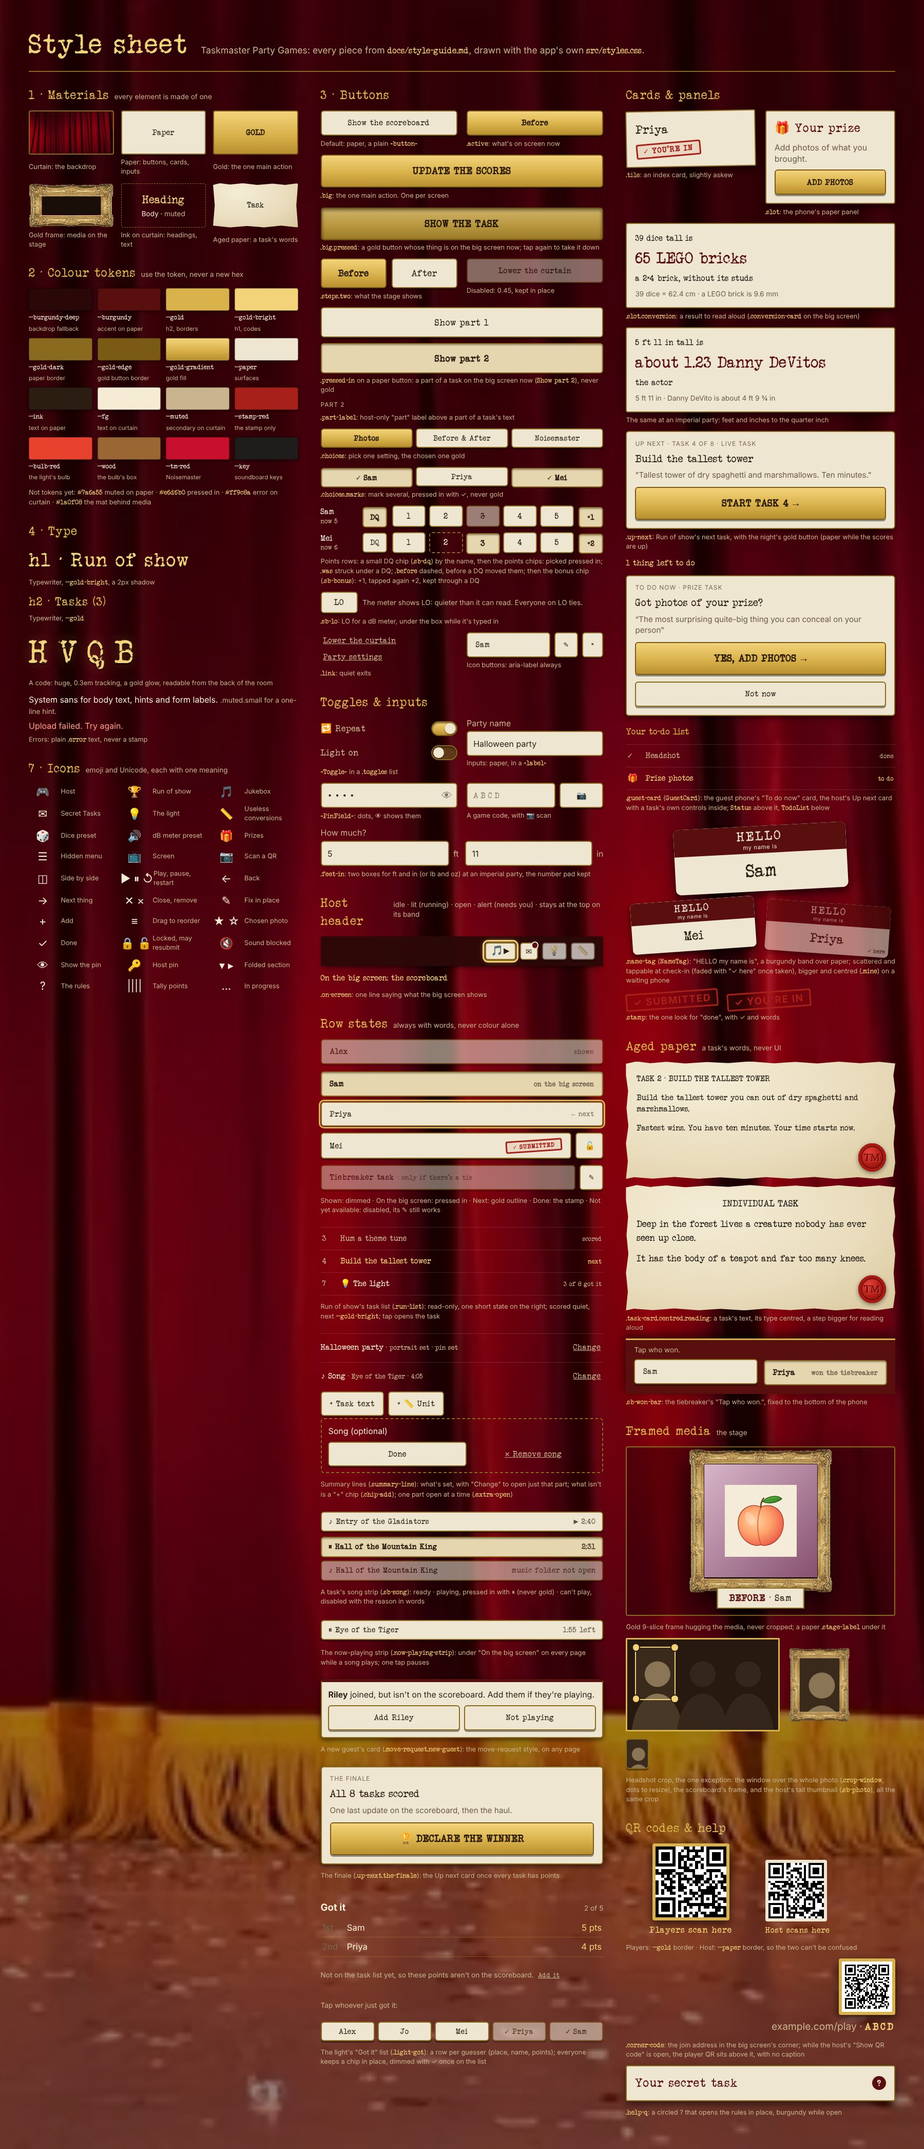
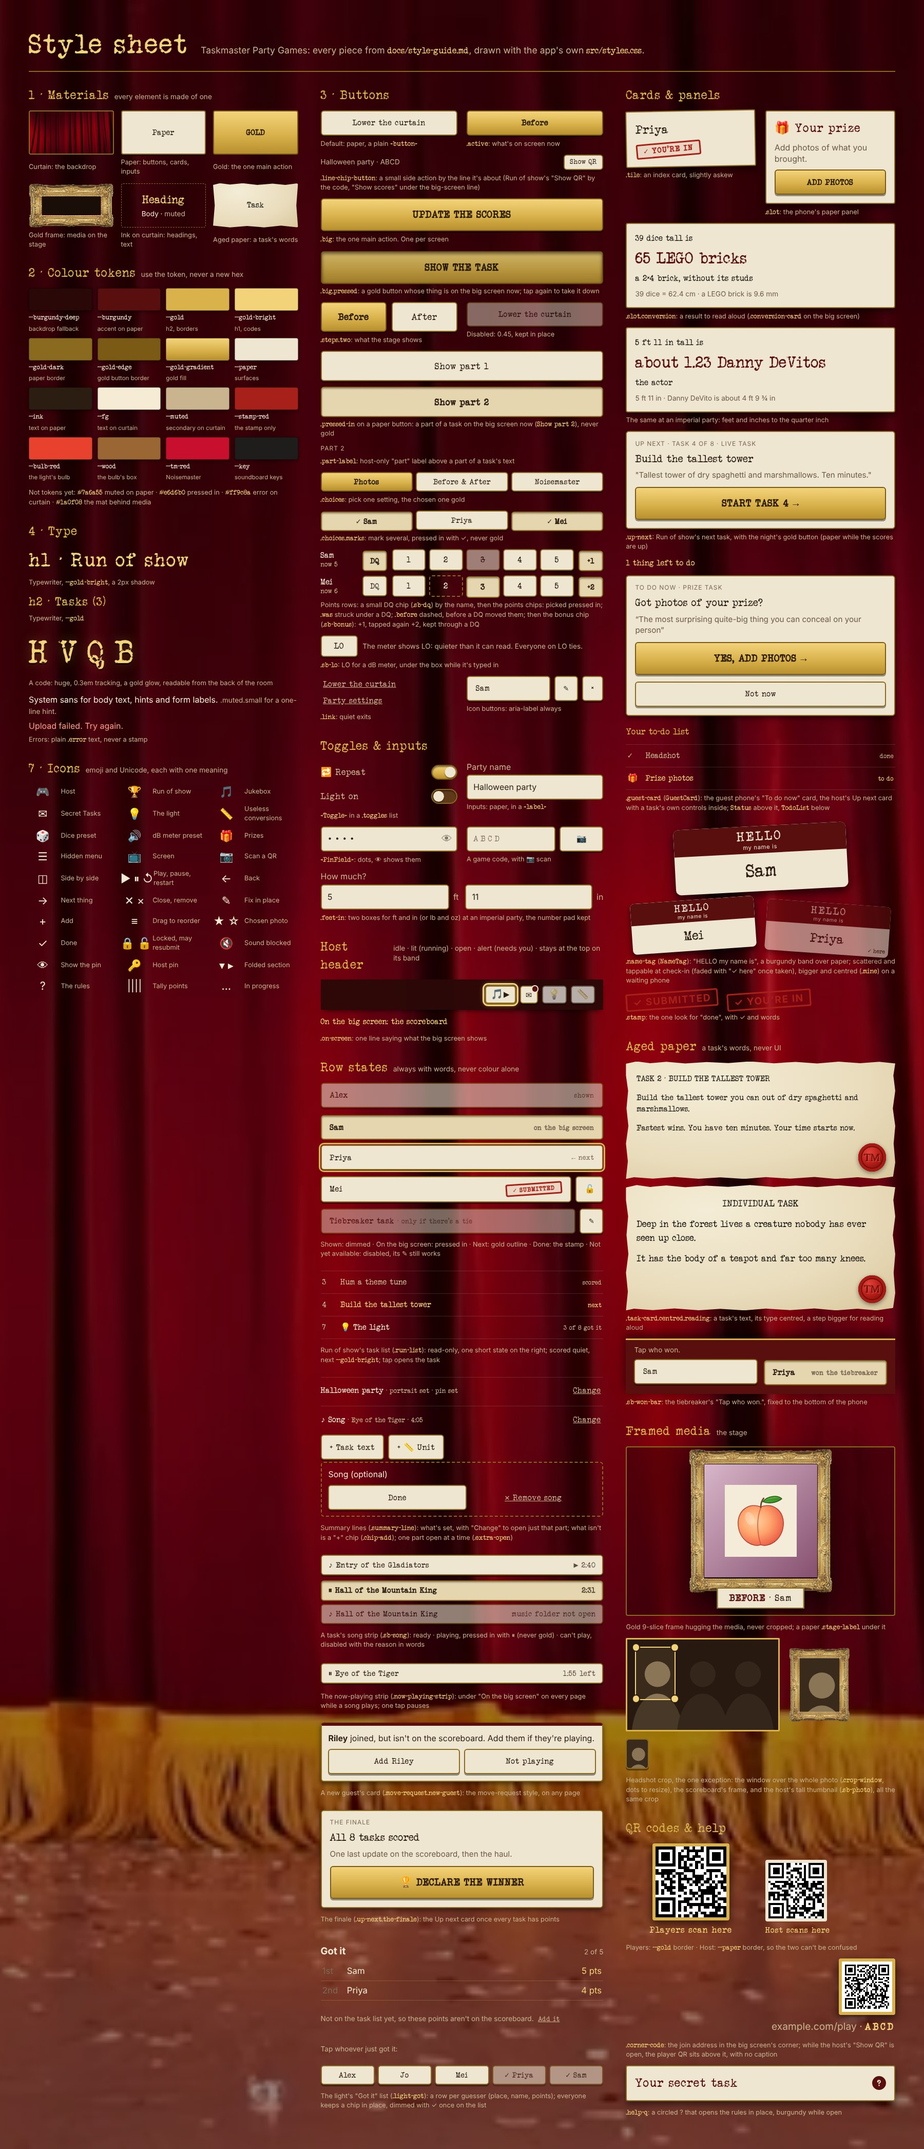
Run of show chips: style guide, style sheet and screen notes
Claude-Session: https://claude.ai/code/session_01JJ78Wp2tedmzgFTByNnrqT

Changed region(s): [[0.3422, 0.0621, 0.6533, 0.9943]]

diff --git a/docs/style-sheet/sheet.tsx b/docs/style-sheet/sheet.tsx
@@ -88,9 +88,12 @@ function Sheet() {
         <div className="col">
           <Sec title="3 · Buttons">
             <div className="pair">
-              <Item cap={<>Default: paper, a plain <code>&lt;button&gt;</code></>}><button>Show the scoreboard</button></Item>
+              <Item cap={<>Default: paper, a plain <code>&lt;button&gt;</code></>}><button>Lower the curtain</button></Item>
               <Item cap={<><code>.active</code>: what's on screen now</>}><button className="active">Before</button></Item>
             </div>
+            <Item cap={<><code>.line-chip-button</code>: a small side action by the line it's about (Run of show's "Show QR" by the code, "Show scores" under the big-screen line)</>}>
+              <div className="line-chip"><p className="muted small party-line">Halloween party · ABCD</p><button className="line-chip-button">Show QR</button></div>
+            </Item>
             <Item cap={<><code>.big</code>: the one main action. One per screen</>}><button className="big">Update the scores</button></Item>
             <Item cap={<><code>.big.pressed</code>: a gold button whose thing is on the big screen now; tap again to take it down</>}><button className="big pressed" aria-pressed>Show the task</button></Item>
             <div className="pair">
@@ -273,7 +276,7 @@ function Sheet() {
               <QRCodeSVG value="https://example.com/play?code=ABCD" bgColor="#fff" marginSize={2} style={{ width: 110, height: 110 }} />
               <p>example.com/play · <strong>ABCD</strong></p>
             </div>
-            <Cap><code>.corner-code</code>: the join address in the big screen's corner; while the host's "Show QR code" is open, the player QR sits above it, with no caption</Cap>
+            <Cap><code>.corner-code</code>: the join address in the big screen's corner; while the host's "Show QR" is open, the player QR sits above it, with no caption</Cap>
             <div className="slot" style={{ gridTemplateColumns: "1fr auto", alignItems: "center" }}><h2>Your secret task</h2><button className="help-q" aria-expanded>?</button></div>
             <Cap><code>.help-q</code>: a circled ? that opens the rules in place, burgundy while open</Cap>
           </Sec>

diff --git a/src/styles.css b/src/styles.css
@@ -157,7 +157,7 @@ input::placeholder { color: #8b7a63; }
 .collecting.no-task .collecting-side .tile .name { font-size: clamp(1.5rem, 3.4vh, 2.4rem); }
 .corner-code { position: fixed; right: 1.2rem; bottom: 0.8rem; display: grid; justify-items: end; gap: 0.6rem; }
 .corner-code p { margin: 0; color: var(--muted); font-size: clamp(0.9rem, 1.8vh, 1.2rem); }
-/* the host remote's "Show QR code", mirrored above the address: big enough to scan from a sofa */
+/* the host remote's "Show QR", mirrored above the address: big enough to scan from a sofa */
 .corner-code svg { width: 24vh; height: auto; border-radius: 4px; border: 6px solid var(--gold); background: #fff; box-shadow: 0 6px 18px #000a; }
 .corner-code strong { font-family: var(--typewriter); color: var(--gold-bright); letter-spacing: 0.2em; }
 .corner-download { position: fixed; left: 1.2rem; bottom: 0.8rem; }

diff --git a/src/types.ts b/src/types.ts
@@ -373,7 +373,7 @@ export interface Session {
   portrait?: string;
   /** Host remote toggles this to reveal the download-all button on the main screen. */
   showDownload?: boolean;
-  /** The host remote's "Show QR code" is open: the big screen puts the join QR above its corner code too. */
+  /** The host remote's "Show QR" is open: the big screen puts the join QR above its corner code too. */
   showQr?: boolean;
   /** A live task's words (a task's id, or "tiebreaker", and which part) the host put on every guest's phone, until the host takes them down. Apart from the big screen's `display`. */
   phoneText?: { task: string; part?: number };

diff --git a/src/Curtain.tsx b/src/Curtain.tsx
@@ -22,7 +22,7 @@ export function Curtain({ code, session, children }: { code: string; session: Se
 }
 
 /**
- * The join address, small in the bottom-right corner for latecomers. While the host remote's "Show QR code" is
+ * The join address, small in the bottom-right corner for latecomers. While the host remote's "Show QR" is
  * open, the join QR sits just above it.
  */
 export function CornerCode({ code, session }: { code: string; session: Session }) {

diff --git a/docs/style-guide.md b/docs/style-guide.md
@@ -168,7 +168,7 @@ Each screen has its own rules. Know which one you're designing for.
 - During a reveal the **media is the whole show**: full screen, framed, with nothing but the small paper label at the bottom.
 - No visible controls. The backup `.stage-controls` bar only fades in while the mouse moves, and the cursor hides when idle. Keyboard shortcuts mirror the host remote.
 - Never show browser media controls on the stage.
-- On the curtain and while entries come in, the join address sits small in the bottom-right corner (`.corner-code`: "site/play · ABCD" in `--muted`, the code in gold typewriter), so a late guest can still join. While the host remote's "Show QR code" is open, the join QR (24vh, `--gold` border, no caption: the address underneath is its caption) sits just above it.
+- On the curtain and while entries come in, the join address sits small in the bottom-right corner (`.corner-code`: "site/play · ABCD" in `--muted`, the code in gold typewriter), so a late guest can still join. While the host remote's "Show QR" is open, the join QR (24vh, `--gold` border, no caption: the address underneath is its caption) sits just above it.
 - **Prize haul** (`.haul`): the finale. "Prize Haul" as a huge typewriter `h1` across the top, the winner's headshot in the largest gold frame in the centre with a paper placard ("Priya is the winner!"), and each prize's ★ photo in smaller frames around it, each with a small "from Sam" placard. The prizes hang one by one from the centre outwards.
 - **The scoreboard is the one exception to the curtain.** It's ported as is from tm-scoreboard (`src/scoreboard/scoreboard.css`, VodBox, MIT): its own sepia typewriter photo (`assets/background.jpg`), each contestant's headshot in a gold frame (cropped as the host chose, § Framed media) over their score on a red wax seal, sorted with the leader scaled up, sliding to new places over 2s. It's sized in fixed px and scaled to the screen. Leave its look alone so it stays the show's own; new stage screens follow the curtain rules above, not this one.
 
@@ -189,20 +189,19 @@ See: [guest-home-waiting.jpg](screens/guest-home-waiting.jpg), [guest-home-prize
 ### Host remote (`/host`)
 - Same phone column, but it's a **control panel**: every control keeps its position on every view. Disable controls that don't apply; don't remove them (see the comment in `HostRemote.tsx`).
 - **Header** (`HostPage.tsx`): four icon buttons, right-aligned, in this order: 🎵 the jukebox (shows ▶ and glows while a song plays), ✉ Secret Tasks, 💡 the light (glows while it's on), 📏 Useless conversions (glows while a conversion is on the big screen). The open one has a `--gold-bright` outline. It stays at the top of the screen while the page scrolls, on a band of `--burgundy-deep` (95%) that runs to the phone's edges, so it is always one tap away. Idle icons are faded and greyed (`.head-icon`); `.lit` is the gold glow, meaning "running"; `.alert` is a small burgundy dot, meaning "needs the host". Never use the glow for "needs you". There is no 🏆 and no "Host" label: Run of show is home, and its title carries the party name and code in small muted type. 🎵 ✉ 💡 📏 open in place of the page with one "← Back" to where the host was, then the "On the big screen" line. A new all-evening feature gets a header icon, not another section on a page.
-- **Arrivals** (`Arrivals` in `RunOfShow.tsx`): before the first task, "Here so far · 3 of 5" and a read-only list (`.arrivals-list`: a 2rem-wide headshot in the scoreboard window's shape, cropped as the scoreboard crops it, the name in typewriter, and a muted "checked in", "not yet" or "checked in · no headshot yet"; guests who haven't come are dimmed), then a paper "Show QR code".
+- **Arrivals** (`Arrivals` in `RunOfShow.tsx`): before the first task, "Here so far · 3 of 5" and a read-only list (`.arrivals-list`: a 2rem-wide headshot in the scoreboard window's shape, cropped as the scoreboard crops it, the name in typewriter, and a muted "checked in", "not yet" or "checked in · no headshot yet"; guests who haven't come are dimmed). No QR button of its own: "Show QR" by the code covers it, and the host prints the QR for the door.
 - **New guest card** (`.move-request.new-guest`, in `HostPage.tsx`): the move-request card style, at the top of any page: the guest's name in bold, "joined, but isn't on the scoreboard. Add them if they're playing.", and two paper buttons, "Add Riley" and "Not playing".
 - **The finale** (`.up-next.the-finale`): the Up next card once every task has points: "THE FINALE", "All 8 tasks scored", one line on what follows, and the night's gold "🏆 Declare the winner".
 - **Now-playing strip** (`.sb-song.now-playing-strip`, in `OnScreen`): while a song plays, under the "On the big screen" line of every page: "⏸ Title" and "1:55 left", pressed in. One tap pauses it. It never goes gold.
 - **📏 Useless conversions** (`ConverterRemote.tsx`): top to bottom, a task's units (if any), the kinds, that kind's units, then "How much?" and gold "Surprise me", so the box follows the unit picked. At an imperial party a kind's US units come first (in ft mm cm m), each kind opens on ft, lb or cups, and ft or lb gets two boxes, ft and in or lb and oz (`.feet-in`), because a phone's number pad has no ' or ". The phone's remembered unit only counts if it's from the party's system. See: [converter-host-imperial-first.jpg](screens/converter-host-imperial-first.jpg).
 - **Read it out** (`ReadOut.tsx`): a quiet "📏 Read it out" under a measured task's points. It opens contestant chips (whoever's number was typed last is picked), the useless-conversion card with "Surprise me again", and a paper "Show on the big screen" that is pressed in ("On the big screen · Jordan") while it's up. Picking another contestant while it's up swaps the big screen to theirs.
 - **Home is the run of show** (`RunOfShow.tsx`). Every party opens on it, and it's for running the night, not building it. Top to bottom:
-  1. `Run of show` heading, then one `.on-screen` line saying what the big screen shows ("On the big screen: the curtain", "…: the scores, before Photos: best costume", "…: not connected yet"), with at most one `.muted.small` line under it.
+  1. `Run of show` heading, then the party line ("Halloween party · ABCD", small and muted) with a small paper **"Show QR"** chip at its right, then one `.on-screen` line saying what the big screen shows ("On the big screen: the curtain", "…: the scores, before Photos: best costume", "…: not connected yet"), with a small paper **"Show scores"** chip under it, left-aligned, while the scores, the haul and the winner aren't up. Then at most one `.muted.small` line. Both are **line chips** (`.line-chip-button`): side actions that change the big screen, so they sit by the line they're about, small, never gold and never full width. "Show scores" goes under its line, not beside it, because that line runs long. They're not in the header: its icons open a page, and these act the moment they're tapped. See: [run-of-show-host.jpg](screens/run-of-show-host.jpg).
   2. **The top slot: the one next thing in gold.** While the scores are up it's the scoreboard's next step: "Update the scores" (the status line names what it adds, so the button stays one line), then "Lower the curtain"; "🎁 Show the prize haul · Priya"; "Play the tiebreaker task · Sam and Priya". The quiet way out sits under it as a `.link`.
   3. **The "Up next" card** (`.up-next`): a paper card with "Up next · task 4 of 8 · live task" in small capitals, the task's name, the first lines of its note in quotes, and the night's gold button: "Start task 4 →", "▶ Start Photos: best costume" for an app game, or "Open task 4 →" for a task half-scored, already on, or the light. While the top slot has the gold, the card's button is paper; starting it then brings the scores down too.
-  4. "Show the scoreboard" (paper), with "Opens on the scores before Hum a theme tune." under it when there's something to update.
-  5. **All tasks** (`.run-list`): read-only rows, a number, the name and one short state on the right ("scored", "next", "playing", "3 of 8 got it", "1 of 8 prizes in"). Scored rows are quiet, the next one is `--gold-bright`. Tapping a row opens that task's page, for running one out of order. No ≡, ✎ or ▶ here.
-  6. A quiet "End the night now: declare the winner" under the list (the night can end before every task is played: one last update, then the haul).
-  7. Quiet links at the bottom (`.run-links`): "Play a game that's not on the list" (or "Back to [BLANK] in a Box" while one is on), "Plan the party", "Show QR code", "Party settings" (the download button, "Reset scores…" and Disconnect). "Reset scores…" opens in place in an `.extra-open` panel: a **Clears** sentence and a muted **Keeps** sentence, counted for the party, an "Also remove guests" switch (off to start), then a paper button named for what it does and a `confirm()`. Never gold: a reset is never the night's next step. After it, the big screen goes back to the curtain. See: [host-reset-scores.jpg](screens/host-reset-scores.jpg).
+  4. **All tasks** (`.run-list`): read-only rows, a number, the name and one short state on the right ("scored", "next", "playing", "3 of 8 got it", "1 of 8 prizes in"). Scored rows are quiet, the next one is `--gold-bright`. Tapping a row opens that task's page, for running one out of order. No ≡, ✎ or ▶ here.
+  5. A quiet "End the night now: declare the winner" under the list (the night can end before every task is played: one last update, then the haul).
+  6. Quiet links at the bottom (`.run-links`): "Play a game that's not on the list" (or "Back to [BLANK] in a Box" while one is on), "Plan the party", "Party settings" (the download button, "Reset scores…" and Disconnect). "Reset scores…" opens in place in an `.extra-open` panel: a **Clears** sentence and a muted **Keeps** sentence, counted for the party, an "Also remove guests" switch (off to start), then a paper button named for what it does and a `confirm()`. Never gold: a reset is never the night's next step. After it, the big screen goes back to the curtain. See: [host-reset-scores.jpg](screens/host-reset-scores.jpg).
 - **One task page for every task** (`TaskPage.tsx`), live task or app game: "← Run of show", the task as the `h1` (`.task-head`) with "Task 4 of 8 · live task" under it, the `.on-screen` line, then:
   - gold **"Show the task"** on an **app game** with text: putting the words up is usually what comes next. While they're up it's pressed in (`button.big.pressed`: down 2px, inset shadow, a little darker), and tapping it again lowers the curtain. On an app game the gold moves on to the game's next step once the words have been up;
   - a **live task or the tiebreaker** with text (one part, or several: pieces each with their own heading, like an Individual part then a Team part) has no "Show the task". It has two rows of **radio buttons** (`.part-pick`, `role="radiogroup"`, each a `.choices.marks` row on one line): "BIG SCREEN" and "PHONES", each choosing **Nothing**, **Part 1**, **Part 2**… (**The task** when there is only one part) The chosen one is pressed in, never gold: putting a part up is the host's choice, and so is putting none up. The two rows are independent: part 1 can be on the big screen while part 2 is on the phones. Picking Nothing on the big screen lowers the curtain; picking another part swaps it. The `.on-screen` line says "the task, part 2". The cards sit under the rows, to read from. **On a phone** the words are the same paper task card as on the host's phone (`TaskTextCard`: the part's own centred heading, the words as written), with no task name and no "Part N", under a status line "Here's the task. Read it, then put your phone away." (`phoneWordsOf`). **"Part N" is host-remote wording only**: the cards, the big screen, guests' phones and the PDF never say it, only each part's own heading. See: [task-parts-host.jpg](screens/task-parts-host.jpg), [task-parts-host-up.jpg](screens/task-parts-host-up.jpg), [task-parts-host-phones.jpg](screens/task-parts-host-phones.jpg), [task-parts-main.jpg](screens/task-parts-main.jpg), [guest-task-parts-phone.jpg](screens/guest-task-parts-phone.jpg);

diff --git a/docs/screens/README.md b/docs/screens/README.md
@@ -26,7 +26,7 @@ Guest phone (`/play`, 390px wide), redrawn on 2026-10-18 in the host remote's la
 | `guest-noisemaster-up.jpg` | "You're up!": the phrase and the board in the card |
 | `main-noisemaster.jpg` | Noisemaster on the big screen mid-go: the words said so far as gold tiles, the red board with the last button lit green, the player's name, the clock, "2 of 4 words" and "1 restart" (2026-10-18) |
 | `noisemaster-host-round.jpg` | The host phone's Noisemaster page mid-go, whole page: "Sam at the soundboard", the clock, the board with its words, Restart and Next round, Points below (2026-10-18) |
-| `run-of-show-host.jpg` | Host phone: the Run of show, "Up next" card with the gold Start button, "Show the scoreboard", and all eight tasks (taken 2026-10-18 from the ABCD party) |
+| `run-of-show-host.jpg` | Host phone: the Run of show, "Show QR" by the code, "Show scores" under the big-screen line, the "Up next" card with the gold Start button, and all eight tasks (party ABCD, 2026-10-19) |
 | `points-host-given.jpg` | Host phone on the Prize task: Sam's prize on the big screen and the Points rows, four guests already scored (taken 2026-10-18 from the ABCD party) |
 | `scores-main-before.jpg` | Main screen: the scoreboard before the host updates it, six wax seals showing the totals so far (taken 2026-10-18 from the ABCD party, silhouette headshots) |
 | `scores-main-after.jpg` | Main screen: the same scoreboard after the update with the Prize task's points, seals ticked up and everyone in their new order, the leader's frame enlarged (taken 2026-10-18 from the ABCD party) |
@@ -128,7 +128,7 @@ Scoreboard (taken on 2026-10-12, from the real components with made-up sessions;
 | `headshot-task-main.jpg` | Main screen: one headshot in the gold frame |
 | `headshot-task-main-everyone.jpg` | Main screen: everyone's headshots |
 | `host-party-settings-name.jpg` | Plan the party with the party line opened by "Change": renaming the party, with the portrait and the host pin under it (2026-10-18) |
-| `run-of-show-host.jpg` | The remote's home between tasks: "On the big screen: the curtain", the "Up next" card with gold "Start task 4 →", paper "Show the scoreboard" with "Opens on the scores before …", the read-only task list with one state each, and "Plan the party", "Show QR code", "Party settings" at the bottom. The header is four icons, with the party name and code under the title (2026-10-18) |
+| `run-of-show-host.jpg` | The remote's home: the party line "Halloween party · ABCD" with a small "Show QR" chip at its right, "On the big screen: the soundboard" with a small "Show scores" chip under it, the "Up next" card with gold "▶ Start Headshot", the read-only task list with one state each, and "Play a game that's not on the list", "Plan the party", "Party settings" at the bottom (party ABCD, 2026-10-19) |
 | `run-of-show-host-scrolled.jpg` | Run of show scrolled down to the task list (party ABCD, Halloween party): the four header icons stay at the top on their dark band, with the page sliding under them. Older host screenshots show the header without its band (2026-10-19) |
 | `run-of-show-host-scores-up.jpg` | The scores up: the scoreboard's controls take the top slot, gold "Update the scores" with "On the big screen: the scores, before Hum a theme tune", "Lower the curtain" as a link, and the "Up next" card's button paper (2026-10-18) |
 | `run-of-show-host-scores-updated.jpg` | After the update: gold "Lower the curtain" alone in the top slot, the pending note gone (2026-10-18) |
@@ -190,7 +190,7 @@ Scoreboard (taken on 2026-10-12, from the real components with made-up sessions;
 | `run-of-show-host-haul-up.jpg` | The haul on the big screen: gold "Lower the curtain", "Back to the scoreboard" as a link (2026-10-18) |
 | `run-of-show-host-haul-waiting.jpg` | The scoreboard up with a task still without points: "The prize haul comes once every task has points. Still none for Prize task." under gold "Lower the curtain", and the "Up next" card's button paper (2026-10-18) |
 | `main-prize-haul-winner-only.jpg` | The prize haul when no prize has photos: "Prize Haul" and the winner's headshot alone, "Priya is the winner!" |
-| `run-of-show-host-arrivals.jpg` | Run of show before the first task: "Here so far · 3 of 5" in guest-list order with headshots and "checked in" or "not yet" (dimmed), paper "Show QR code", then the Up next card with gold "▶ Start Headshot" (2026-10-18) |
+| `run-of-show-host-arrivals.jpg` | Run of show before the first task: "Show QR" by the code and "Show scores" under the big-screen line, then "Here so far · 5 of 6" in guest-list order with headshots and "checked in" or "not yet" (dimmed), then the Up next card with gold "▶ Start Headshot" (party ABCD, 2026-10-19) |
 | `host-new-guest.jpg` | A guest who isn't on the scoreboard comes as a card at the top of the page: "Riley joined, but isn't on the scoreboard. Add them if they're playing." with "Add Riley" and "Not playing" (2026-10-18) |
 | `host-new-guest-late.jpg` | The same card on a task page, mid-show: it appears on whatever page the host is on (2026-10-18) |
 | `scoreboard-host-not-playing.jpg` | Plan the party after "Not playing": Riley stays under "Here, but not on the scoreboard" marked "not playing", with "+ Add" if they change their mind (2026-10-18) |
